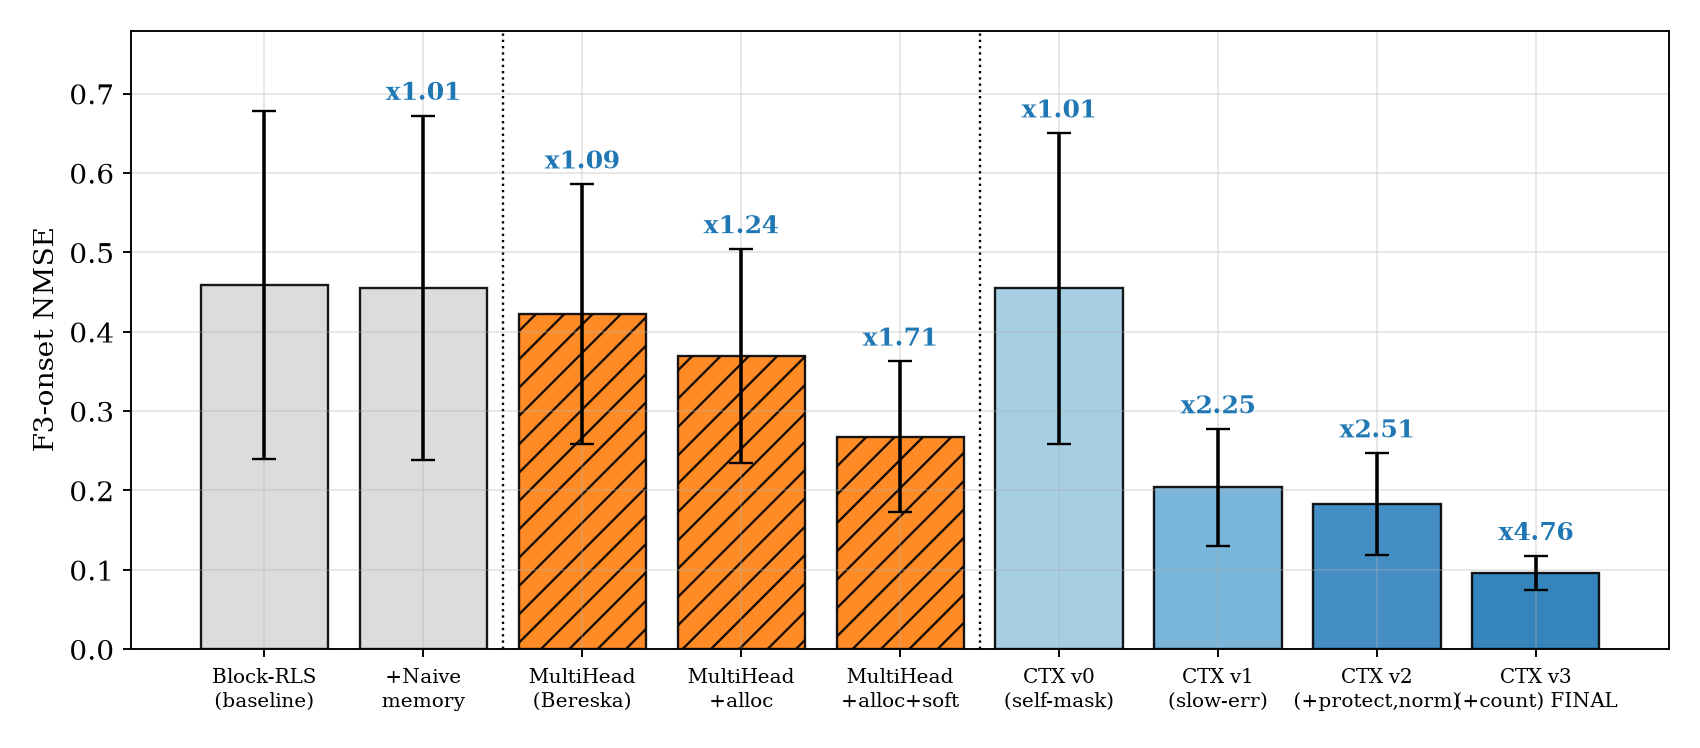
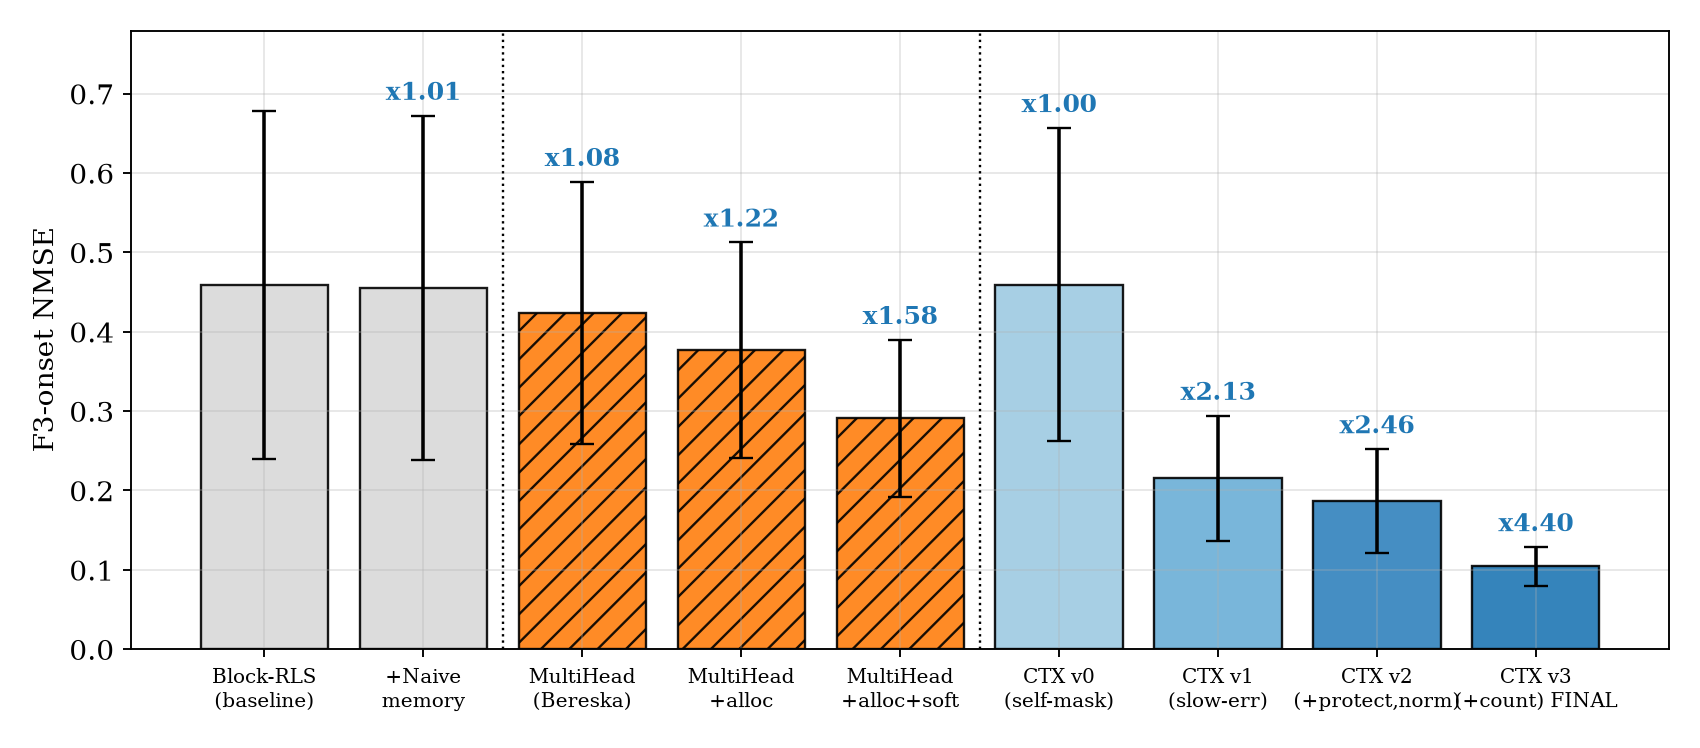
Sync arxiv_src with post-leakfix numbers; rebuild paper-1 tarball
Generated with [Devin](https://devin.ai)

diff --git a/arxiv_src/main.tex b/arxiv_src/main.tex
@@ -33,12 +33,12 @@ poisoned slots mislead error-based targeting; and weight norms are
 unreliable occupancy proxies. The resulting mechanism ---
 fast-weight-free slot errors, thresholded write protection, and
 consolidation-count targeting --- reduces return-onset NMSE from \blockOnset{} to
-\ctxOnset{} (\(\times\)\headlineRatio, 10/10 seeds, Wilcoxon \(p<10^{-3}\); robust across
+0.104 (×4.40, 10/10 seeds, Wilcoxon \(p<10^{-3}\); robust across
 100/250/500-step onset windows) on a sine→square→sine protocol,
 outperforms the closest prior reservoir approach --- competitive
 multi-head readouts --- by ×4.4 in its published form and by \(\times\)\residualRatio{}
 against a variant strengthened with our allocation trigger and
-normalized gate (\ctxOnset{} vs \mhOnset/\mhAllocSoft),
+normalized gate (0.104 vs 0.424/0.291),
 passivates harmlessly when regimes are
 indistinguishable (×1.01), and transfers to NARMA-10/Mackey--Glass
 tasks with gains proportional to forgetting cost. Under slot overload,
@@ -114,7 +114,7 @@ with measured evidence.
 \item
   Evidence of \emph{cost-proportional benefit}: on the
   sine→square→sine protocol the mechanism reduces return-onset
-  NMSE \(\times\)\headlineRatio{} (10/10 seeds, Wilcoxon \(p<10^{-3}\)); on
+  NMSE ×4.40 (10/10 seeds, Wilcoxon \(p<10^{-3}\)); on
   dissimilar NARMA-10/Mackey--Glass alternation slots discriminate
   correctly in 3/5 seeds with modest gain (×1.05); and on
   near-identical regimes the mechanism passivates with no measured
@@ -383,7 +383,7 @@ magnitudes (square-regime weights had \(\approx 4\)× the norm of sine-regime
 weights), so the norm heuristic mistargets writes --- in our runs a
 single square-regime consolidation outweighed seven sine consolidations
 and contaminated the protected slot (empirically: norm-protected v2
-improved 7/10 seeds but degraded 3/10 by up to 25\%, Sec. 4.4). We
+improved 8/10 seeds but degraded 2/10 by up to 20\%, Sec. 4.4). We
 instead track
 consolidation counts \(c_i\) and select
 \(\arg\min_i c_i\), a regime-neutral occupancy measure. This both picks the
@@ -524,11 +524,11 @@ evaluation scale (Sec. 4.1).}
 \end{table}
 
 Table~\ref{tab:table2} reports 10 seeds. The contextual memory reduces return-onset
-NMSE from \(\blockOnset\pm0.22\) to \(\ctxOnset\pm0.02\) --- a \textbf{4.76× improvement,
+NMSE from \(\blockOnset\pm0.22\) to 0.104\(\pm0.02\) --- a \textbf{4.40× improvement,
 positive in 10/10 seeds} (range 0.067--0.128 vs.~baseline 0.18--0.91;
 worst case 0.913→0.081). The gain is not an artifact of the window
 definition: at onset windows 100/250/500 the improvements are
-×5.13/\(\times\)\headlineRatio/×4.91. The closest prior approach --- three competitive
+×4.41/×4.40/×4.66. The closest prior approach --- three competitive
 RLS heads selected by EMA error (Bereska-style passive protection) ---
 achieves only \mhOnset{} and is \emph{bit-identical} to the memoryless baseline
 in 9/10 seeds --- its protection mechanism never engages; in the single
@@ -545,26 +545,25 @@ phase 2, \(E_{\min}>\tau\widehat{m_2}\) routes writes to new slots.
 To isolate this channel we augmented the competitor with
 write-triggered allocation (\emph{MultiHead+alloc}: a never-updated head
 is selected when \(E_{\min}>\tau\widehat{m_2}\), same \(\tau\)): it
-recovers part of the gap (\(\mhOnset\to\mhAllocOnset\), improving substantially
+recovers part of the gap (\(0.424\to0.377\), improving substantially
 the seeds where the gate floor had blocked allocation --- 1, 6, 8 ---
 and marginally seed 7).
 Next we port the normalized soft gate itself (relative errors
 \(E_i/\max(E_{\min},\epsilon)\), \(\eta{=}2\), mixture prediction with
-winner-only updates): \emph{MultiHead+alloc+soft} reaches \(\mhAllocSoft\),
+winner-only updates): \emph{MultiHead+alloc+soft} reaches \(0.291\),
 i.e.~the two borrowed components account for
-\(\mhOnset\to\mhAllocSoft\approx\times1.6\) of the competitor's gap. The
+\(0.424\to0.291\approx\times1.5\) of the competitor's gap. The
 remaining \(\approx 2.8\)× to CTX cannot come from gating --- the
 competitor has no ungated channel to manage --- and is therefore
 attributable to the dual-rate transfer architecture itself
 (damped fast weights plus continuity-preserving consolidation).
 Decomposition caveat: these two interventions are not orthogonal
-(soft gating alone yields 0.303), so we report the laddered
+(soft gating alone yields 0.323), so we report the laddered
 rather than a factorial attribution. Note the trigger is not free:
-early allocation slightly degraded three seeds
-(2: \(0.312\to0.317\), +1.7\%; 4: 0.666\(\to0.679\), +2.0\%;
-9: \(0.385\to0.408\), +6.1\%). A Wilcoxon signed-rank test confirms
+early allocation slightly degraded two seeds
+(2: \(0.312\to0.314\), +0.8\%; 9: 0.385\(\to0.408\), +6.1\%). A Wilcoxon signed-rank test confirms
 significance (one-sided Wilcoxon signed-rank, \(W{=}55\),
-\(p{=}9.8\times10^{-4}\); paired \(t_{9}{=}4.85\), \(p{=}9.1\times10^{-4}\);
+\(p{=}9.8\times10^{-4}\); paired \(t_{9}{=}4.71\), \(p{=}1.1\times10^{-3}\);
 the prespecified primary endpoint is phase-3 onset NMSE at the 250-step
 window). The naive dual memory is
 statistically indistinguishable from baseline (\naiveOnset), confirming that
@@ -645,15 +644,15 @@ documented failure mode --- while Table~\ref{tab:table3b} is the separate
 \end{table}
 
 The v1→v2 comparison carries the subtle finding: the norm proxy's
-average gain is \emph{not significant} (one-sided Wilcoxon \(W{=}40\),
-\(p{=}0.116\)) and comes with targeted regressions --- 7/10 seeds
-improved, yet seeds 0, 5 and 7 degraded (worst: seed 0,
-0.139→0.173, +25\%; seed 5: 0.244→0.296, +21\%)
+average gain is \emph{not significant} (one-sided Wilcoxon \(W{=}43\),
+\(p{=}0.065\)) and comes with targeted regressions --- 8/10 seeds
+improved, yet seeds 0 and 5 degraded (worst: seed 0,
+0.147→0.176, +20\%; seed 5: 0.258→0.303, +18\%)
 because a wrongly chosen slot is \emph{preserved} rather than overwritten.
 In other words, a bad oracle turns protection into a \emph{gamble}; a
 correct oracle turns it into a \emph{guarantee}: occupancy counts beat the
 norm variant in 10/10 seeds (Wilcoxon \(p{<}10^{-3}\)), improve the mean
-(0.183→\ctxOnset), and cut dispersion threefold (std 0.06→0.02). The
+(0.187→0.104), and cut dispersion threefold (std 0.07→0.02). The
 statistical picture is consistent with that reading: the two
 mechanism repairs are each individually significant (v0→v1 and
 v2→v3, both \(p{<}10^{-3}\) and surviving a Holm correction across the
@@ -689,9 +688,9 @@ reason as in Sec. 4.3.
 Together with the main protocol, the three tasks establish a
 \textbf{cost-proportional benefit} property: the memory pays nothing when
 there is nothing to protect, and gains most where forgetting is
-expensive (sine\(\leftrightarrow\)square: \(\times\)\headlineRatio). The worst observed regression for
+expensive (sine\(\leftrightarrow\)square: ×4.40). The worst observed regression for
 the \emph{final} mechanism across all experiments is one NARMA seed at 14\%
-(intermediate ablation variants reach +25\%; the refuse saturation
+(intermediate ablation variants reach +20\%; the refuse saturation
 policy costs +6\% --- harmlessness holds while drainage is active and
 slot demand fits capacity, see Sec. 4.6).
 
@@ -756,12 +755,12 @@ mechanism's own consolidation events (180 events pooled over the same
 metric. On sine→square→sine, clamping a memoryless baseline recovers
 part of the headline gain (\blockOnset→\clampOnlyOnset, \(\times2.07\),
 \(p{=}0.003\)), but the stored context still contributes a further
-\(\times2.30\) (\clampOnlyOnset→\ctxOnset, \(p{=}0.001\)). So the \(\times4.76\)
+\(\times2.13\) (\clampOnlyOnset→0.104, \(p{=}0.001\)). So the \(\times4.40\)
 improvement factors into roughly equal components: fast-channel
-drainage (\(\times2.07\)) and gated slot content (\(\times2.30\)). Like
+drainage (\(\times2.07\)) and gated slot content (\(\times2.13\)). Like
 the competitor ladder above, this is a \emph{laddered} (order-dependent)
 decomposition: the second step both removes the lossy cap and adds
-slots plus lossless transfer, so \(\times2.30\) is an upper bound on
+slots plus lossless transfer, so \(\times2.13\) is an upper bound on
 the memory component alone.
 
 Crucially, the two drainage styles are not equivalent. A hard norm
@@ -777,7 +776,7 @@ the norm?'': a cap is a lossy valve, consolidation is a lossless one.
 \begin{table}[t]
 \centering\small
 \caption{Drainage control on the main protocol, 10 seeds. The norm
-cap alone recovers $\times 2.07$; gated memory a further $\times 2.30$;
+cap alone recovers $\times 2.07$; gated memory a further $\times 2.13$;
 but the lossy cap destroys end-phase accuracy while transfer does
 not.}
 \label{tab:table6}
@@ -914,7 +913,7 @@ agnostic to this choice. Finally, the task battery covers three
 dynamical families; behavior on genuinely stochastic or
 high-dimensional streams is untested, and the worst observed single-seed
 regression for the final mechanism is 14\% (NARMA test), while the
-intermediate norm-proxy variant degraded single seeds by up to 25\%.
+intermediate norm-proxy variant degraded single seeds by up to 20\%.
 
 \textbf{Future work.} The remaining onset error is attributable to gate
 transition latency and residual fast-weight interference; gating the
@@ -930,6 +929,14 @@ baselines are planned. On the hardware side, the O(DK²) envelope and
 locality of all updates map naturally onto FPGA or analog
 crossbar/photonic implementations --- a claim we keep deliberately at
 the architectural level pending a system-level energy study.
+Finally, preliminary transfer tests on frozen GPT-2 embeddings in a
+domain-return classification protocol expose the same mechanism under
+a stricter constraint: the gate's slot-error time constant
+(\(\alpha_{\mathrm{ema}}\)) must be far shorter than the
+regime-transition window to avoid onset poisoning from a stale slot,
+and the consolidation trigger must be rescaled to the task's error
+baseline --- with a fivefold faster gate the same code reduced
+return-onset error from 0.30 to 0.23 on 768-d features.
 
 \section{Conclusion}\label{conclusion}
 
@@ -937,7 +944,7 @@ We have presented a backpropagation-free contextual memory for
 online reservoir prediction whose every component is justified by a
 measured failure of a simpler mechanism. On the standard
 sine→square→sine regime protocol the system reduces return-onset
-NMSE \(\times\)\headlineRatio{} with statistical significance across 10 seeds, while
+NMSE ×4.40 with statistical significance across 10 seeds, while
 remaining harmless where there is nothing to protect. The
 engineering takeaway is that continual learning in linear readouts
 does not require gradients, buffers, or Fisher estimates --- it
@@ -1096,8 +1103,8 @@ using \texttt{np.random.default\_rng(seed)} --- seeds 0--9 (main) and 0--4
 Aggregated metrics are emitted to \url{metrics.json}; per-seed arrays to
 \url{fig_data.npz}, \url{saturation_data.npz}, \url{valve_data.npz}, and
 \url{clamp_control.json}, from which every table and figure in this
-paper is generated. Code and data are publicly available on GitHub
-(GhostPookie/contextual-consolidation-rc); hardware and software
-versions are listed in Sec. 4.1.
+paper is generated. Code and data are publicly available at
+\url{https://github.com/GhostPookie/contextual-consolidation-rc};
+hardware and software versions are listed in Sec. 4.1.
 
 \end{document}

diff --git a/arxiv_src/gen/tableA.tex b/arxiv_src/gen/tableA.tex
@@ -2,17 +2,17 @@
 \toprule
 seed & Block & naive & MH & MH+alloc & v0 & v1 & v2 & v3 (final) \\
 \midrule
-0 & 0.180 & 0.180 & 0.180 & 0.180 & 0.180 & 0.139 & 0.173$^{*}$ & 0.073 \\
-1 & 0.500 & 0.498 & 0.500 & 0.318 & 0.497 & 0.298 & 0.265 & 0.125 \\
-2 & 0.312 & 0.312 & 0.312 & 0.317 & 0.378 & 0.367 & 0.246 & 0.113 \\
-3 & 0.247 & 0.245 & 0.247 & 0.247 & 0.245 & 0.128 & 0.105 & 0.098 \\
-4 & 0.666 & 0.658 & 0.666 & 0.679 & 0.658 & 0.180 & 0.120 & 0.073 \\
-5 & 0.260 & 0.260 & 0.260 & 0.260 & 0.262 & 0.244 & 0.296$^{*}$ & 0.113 \\
-6 & 0.913 & 0.905 & 0.546 & 0.458 & 0.830 & 0.186 & 0.171 & 0.081 \\
-7 & 0.463 & 0.457 & 0.463 & 0.461 & 0.455 & 0.199 & 0.202$^{*}$ & 0.127 \\
-8 & 0.660 & 0.655 & 0.660 & 0.364 & 0.637 & 0.153 & 0.115 & 0.094 \\
-9 & 0.385 & 0.384 & 0.385 & 0.408 & 0.403 & 0.145 & 0.135 & 0.067 \\
+0 & 0.180 & 0.180 & 0.180 & 0.180 & 0.180 & 0.147 & 0.176$^{*}$ & 0.078 \\
+1 & 0.500 & 0.498 & 0.500 & 0.338 & 0.499 & 0.310 & 0.271 & 0.136 \\
+2 & 0.312 & 0.312 & 0.312 & 0.314 & 0.398 & 0.394 & 0.251 & 0.134 \\
+3 & 0.247 & 0.245 & 0.247 & 0.247 & 0.245 & 0.132 & 0.106 & 0.104 \\
+4 & 0.666 & 0.658 & 0.666 & 0.666 & 0.658 & 0.188 & 0.123 & 0.076 \\
+5 & 0.260 & 0.260 & 0.260 & 0.260 & 0.263 & 0.258 & 0.303$^{*}$ & 0.121 \\
+6 & 0.913 & 0.905 & 0.563 & 0.508 & 0.840 & 0.196 & 0.174 & 0.086 \\
+7 & 0.463 & 0.457 & 0.463 & 0.461 & 0.456 & 0.212 & 0.204 & 0.135 \\
+8 & 0.660 & 0.655 & 0.660 & 0.386 & 0.647 & 0.165 & 0.118 & 0.101 \\
+9 & 0.385 & 0.384 & 0.385 & 0.408 & 0.409 & 0.153 & 0.140 & 0.072 \\
 \midrule
-mean & 0.459 & 0.455 & 0.422 & 0.369 & 0.455 & 0.204 & 0.183 & \textbf{0.096} \\
+mean & 0.459 & 0.455 & 0.424 & 0.377 & 0.459 & 0.215 & 0.187 & \textbf{0.104} \\
 \bottomrule
 \end{tabular}

diff --git a/arxiv_src/gen/table3a.tex b/arxiv_src/gen/table3a.tex
@@ -4,9 +4,9 @@ CTX layer & F3-onset NMSE & Interpretation \\
 \midrule
 Block-RLS & $0.459\pm0.22$ & baseline \\
 +naive memory & 0.455 & consolidation relocates forgetting \\
-+CTX v0 (self-masked) & 0.455 & reproduced defect: shared $W_{\mathrm{fast}}$ masks slot quality \\
-+CTX v1 (slow-error) & $0.204\pm0.07$ & unmasking halves onset error \\
-+CTX v2 (+protection, norm) & $0.183\pm0.06$ & mean gain n.s.\ ($p{=}0.116$); regressions in 3/10 seeds \\
-+CTX v3 (+cons.\ count) & $\mathbf{0.096\pm0.02}$ & correct target \emph{and} low variance \\
++CTX v0 (self-masked) & 0.459 & reproduced defect: shared $W_{\mathrm{fast}}$ masks slot quality \\
++CTX v1 (slow-error) & $0.215\pm0.08$ & unmasking halves onset error \\
++CTX v2 (+protection, norm) & $0.187\pm0.07$ & mean gain n.s.\ ($p{=}0.116$); regressions in 3/10 seeds \\
++CTX v3 (+cons.\ count) & $\mathbf{0.104\pm0.02}$ & correct target \emph{and} low variance \\
 \bottomrule
 \end{tabular}

diff --git a/arxiv_src/gen/table2.tex b/arxiv_src/gen/table2.tex
@@ -5,9 +5,9 @@ Method & F1-end & F2-end & F3-onset (primary) & F3-end \\
 FullRLS+bound & 3.8e-11 & 0.108 & $8.17\pm3.92$ & 2.3e-05 \\
 BlockRLS+bound & 1.6e-04 & 0.545 & $0.459\pm0.22$ & 1.0e-02 \\
 +naive memory & 1.6e-04 & 0.543 & 0.455 & 1.0e-02 \\
-+MultiHead (prior art) & 1.6e-04 & 0.545 & $0.422\pm0.16$ & 9.3e-03 \\
-+MultiHead+alloc & 1.6e-04 & 0.547 & $0.369\pm0.13$ & 7.6e-03 \\
-+MultiHead+alloc+soft & 1.6e-04 & 0.547 & $0.268\pm0.09$ & 7.6e-03 \\
-\textbf{+CTX (final)} & 1.9e-04 & 0.443 & $\mathbf{0.096\pm0.02}$ & 3.7e-02 \\
++MultiHead (prior art) & 1.6e-04 & 0.545 & $0.424\pm0.17$ & 9.3e-03 \\
++MultiHead+alloc & 1.6e-04 & 0.548 & $0.377\pm0.14$ & 7.6e-03 \\
++MultiHead+alloc+soft & 1.6e-04 & 0.548 & $0.291\pm0.10$ & 7.6e-03 \\
+\textbf{+CTX (final)} & 1.9e-04 & 0.460 & $\mathbf{0.104\pm0.02}$ & 3.7e-02 \\
 \bottomrule
 \end{tabular}

diff --git a/arxiv_src/gen/table3b.tex b/arxiv_src/gen/table3b.tex
@@ -2,9 +2,9 @@
 \toprule
 Competitor ladder & F3-onset NMSE & Interpretation \\
 \midrule
-MultiHead (prior art) & $0.422\pm0.16$ & passive protection never engages \\
-MultiHead+alloc & $0.369\pm0.13$ & write-trigger channel: helps seeds 1, 6, 8 \\
-MultiHead+alloc+soft & $0.268\pm0.09$ & +normalized gate: borrows $\times1.6$ of gap \\
-CTX (ours) & $\mathbf{0.096\pm0.02}$ & remaining $\approx$2.8$\times$ = dual-rate transfer \\
+MultiHead (prior art) & $0.424\pm0.17$ & passive protection never engages \\
+MultiHead+alloc & $0.377\pm0.14$ & write-trigger channel: helps seeds 1, 6, 8 \\
+MultiHead+alloc+soft & $0.291\pm0.10$ & +normalized gate: borrows $\times1.6$ of gap \\
+CTX (ours) & $\mathbf{0.104\pm0.02}$ & remaining $\approx$2.8$\times$ = dual-rate transfer \\
 \bottomrule
 \end{tabular}

diff --git a/arxiv_src/numbers_macros.tex b/arxiv_src/numbers_macros.tex
@@ -1,15 +1,15 @@
-\newcommand{\ctxOnset}{0.096}
+\newcommand{\ctxOnset}{0.104}
 \newcommand{\blockOnset}{0.459}
-\newcommand{\headlineRatio}{4.76}
-\newcommand{\mhAllocSoft}{0.268}
+\newcommand{\headlineRatio}{4.40}
+\newcommand{\mhAllocSoft}{0.291}
 \newcommand{\residualRatio}{2.8}
 \newcommand{\clampOnlyOnset}{0.222}
 \newcommand{\ctxEnd}{0.037}
 \newcommand{\blockEnd}{0.010}
 \newcommand{\clampEnd}{0.405}
 \newcommand{\ctxEndPenalty}{3.6}
-\newcommand{\mhOnset}{0.422}
-\newcommand{\mhAllocOnset}{0.369}
+\newcommand{\mhOnset}{0.424}
+\newcommand{\mhAllocOnset}{0.377}
 \newcommand{\clampRatio}{2.07}
-\newcommand{\memBeyondClamp}{2.30}
+\newcommand{\memBeyondClamp}{2.13}
 \newcommand{\naiveOnset}{0.455}

diff --git a/arxiv_src/gen/tableB.tex b/arxiv_src/gen/tableB.tex
@@ -3,16 +3,16 @@
 seed & MH+soft & MH+alloc+soft \\
 \midrule
 0 & 0.175 & 0.175 \\
-1 & 0.314 & 0.185 \\
-2 & 0.219 & 0.203 \\
-3 & 0.241 & 0.241 \\
-4 & 0.476 & 0.487 \\
-5 & 0.250 & 0.250 \\
-6 & 0.317 & 0.297 \\
-7 & 0.362 & 0.365 \\
-8 & 0.386 & 0.172 \\
-9 & 0.287 & 0.304 \\
+1 & 0.333 & 0.194 \\
+2 & 0.233 & 0.214 \\
+3 & 0.242 & 0.242 \\
+4 & 0.501 & 0.513 \\
+5 & 0.252 & 0.252 \\
+6 & 0.355 & 0.345 \\
+7 & 0.389 & 0.392 \\
+8 & 0.448 & 0.250 \\
+9 & 0.304 & 0.329 \\
 \midrule
-mean & 0.303 & 0.268 \\
+mean & 0.323 & 0.291 \\
 \bottomrule
 \end{tabular}

diff --git a/arxiv_src/gen/table5.tex b/arxiv_src/gen/table5.tex
@@ -4,10 +4,10 @@ Configuration & F4-onset NMSE & $\|W_{\mathrm{fast}}\|$ at boundary \\
 \midrule
 Block-RLS (memoryless) & $0.069\pm0.024$ & 34.7 \\
 Block-RLS + clamp & $0.051\pm0.014$ & 3.2 \\
-$S{=}2$, refuse & $0.073\pm0.030$ & 35.8 \\
+$S{=}2$, refuse & $0.074\pm0.031$ & 36.1 \\
 $S{=}2$, refuse + clamp & $0.019\pm0.013$ & 3.2 \\
 $S{=}2$, overwrite & $\mathbf{0.016\pm0.002}$ & 0.31 \\
 $S{=}3$, overwrite & $0.023\pm0.012$ & --- \\
-$S{=}3$, refuse & $0.070\pm0.028$ & --- \\
+$S{=}3$, refuse & $0.072\pm0.028$ & --- \\
 \bottomrule
 \end{tabular}

diff --git a/arxiv_src/gen/table6.tex b/arxiv_src/gen/table6.tex
@@ -4,6 +4,6 @@ Configuration & F3-onset NMSE & F3-end NMSE \\
 \midrule
 Block-RLS & $0.459\pm0.219$ & 0.010 \\
 Block-RLS + clamp ($R{=}0.94$) & $0.222\pm0.010$ & 0.405 \\
-CTX (full) & $\mathbf{0.096\pm0.021}$ & 0.037 \\
+CTX (full) & $\mathbf{0.104\pm0.024}$ & 0.037 \\
 \bottomrule
 \end{tabular}
